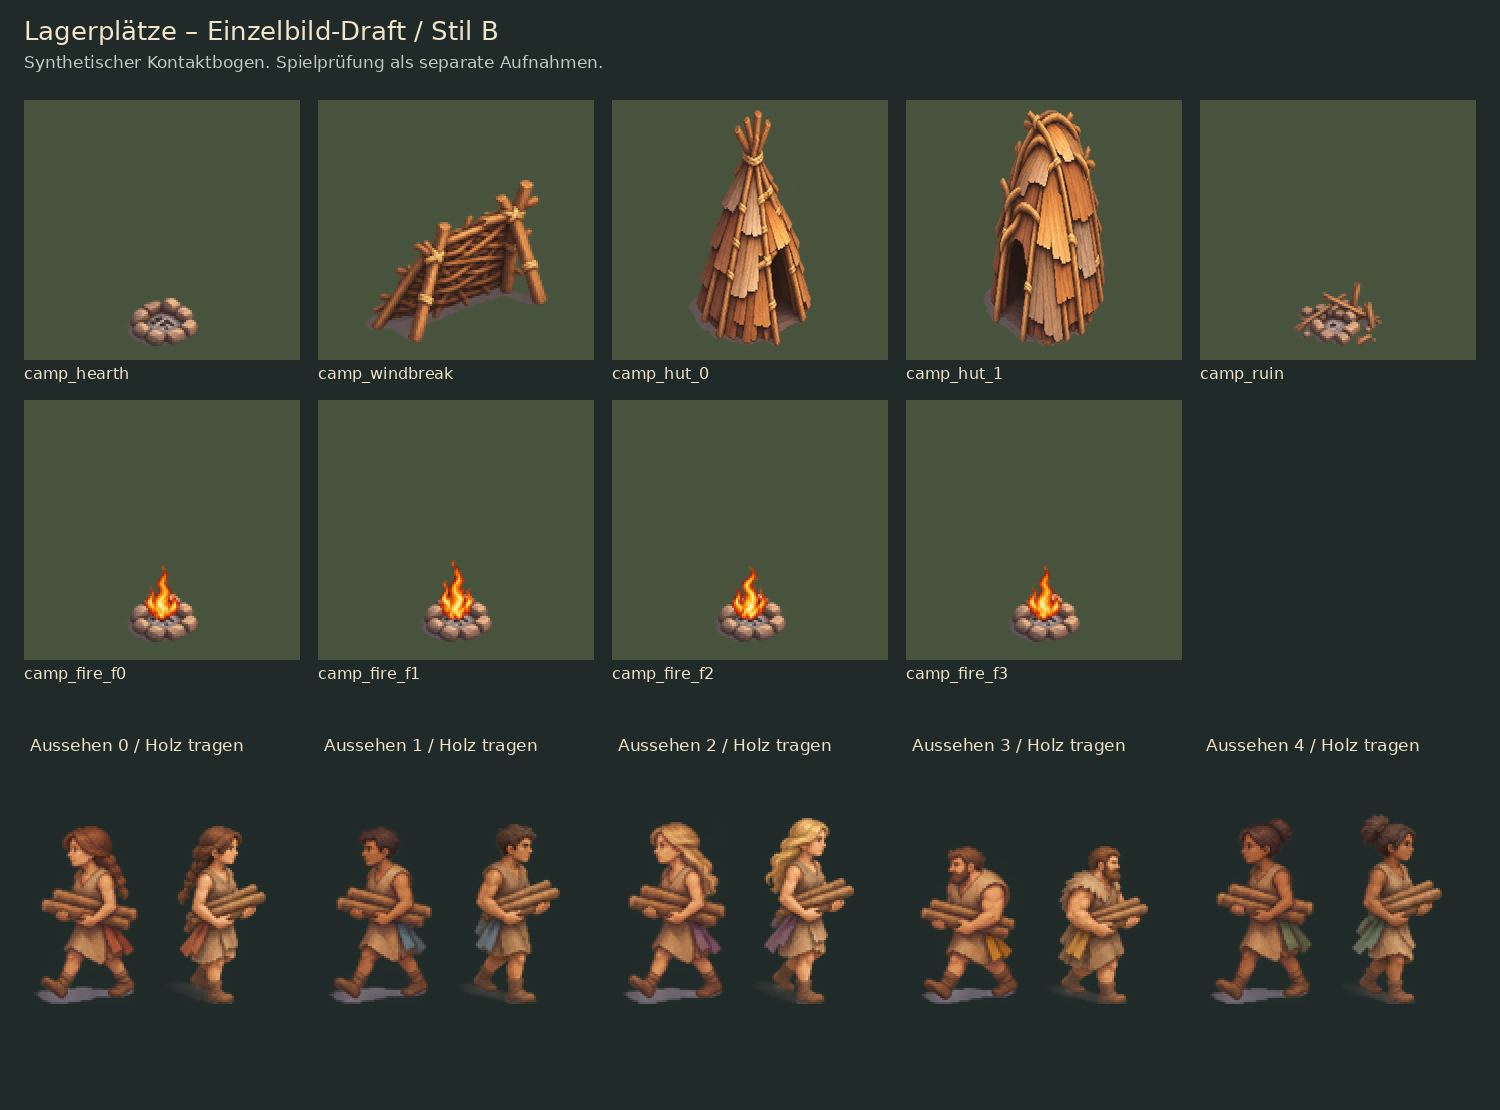
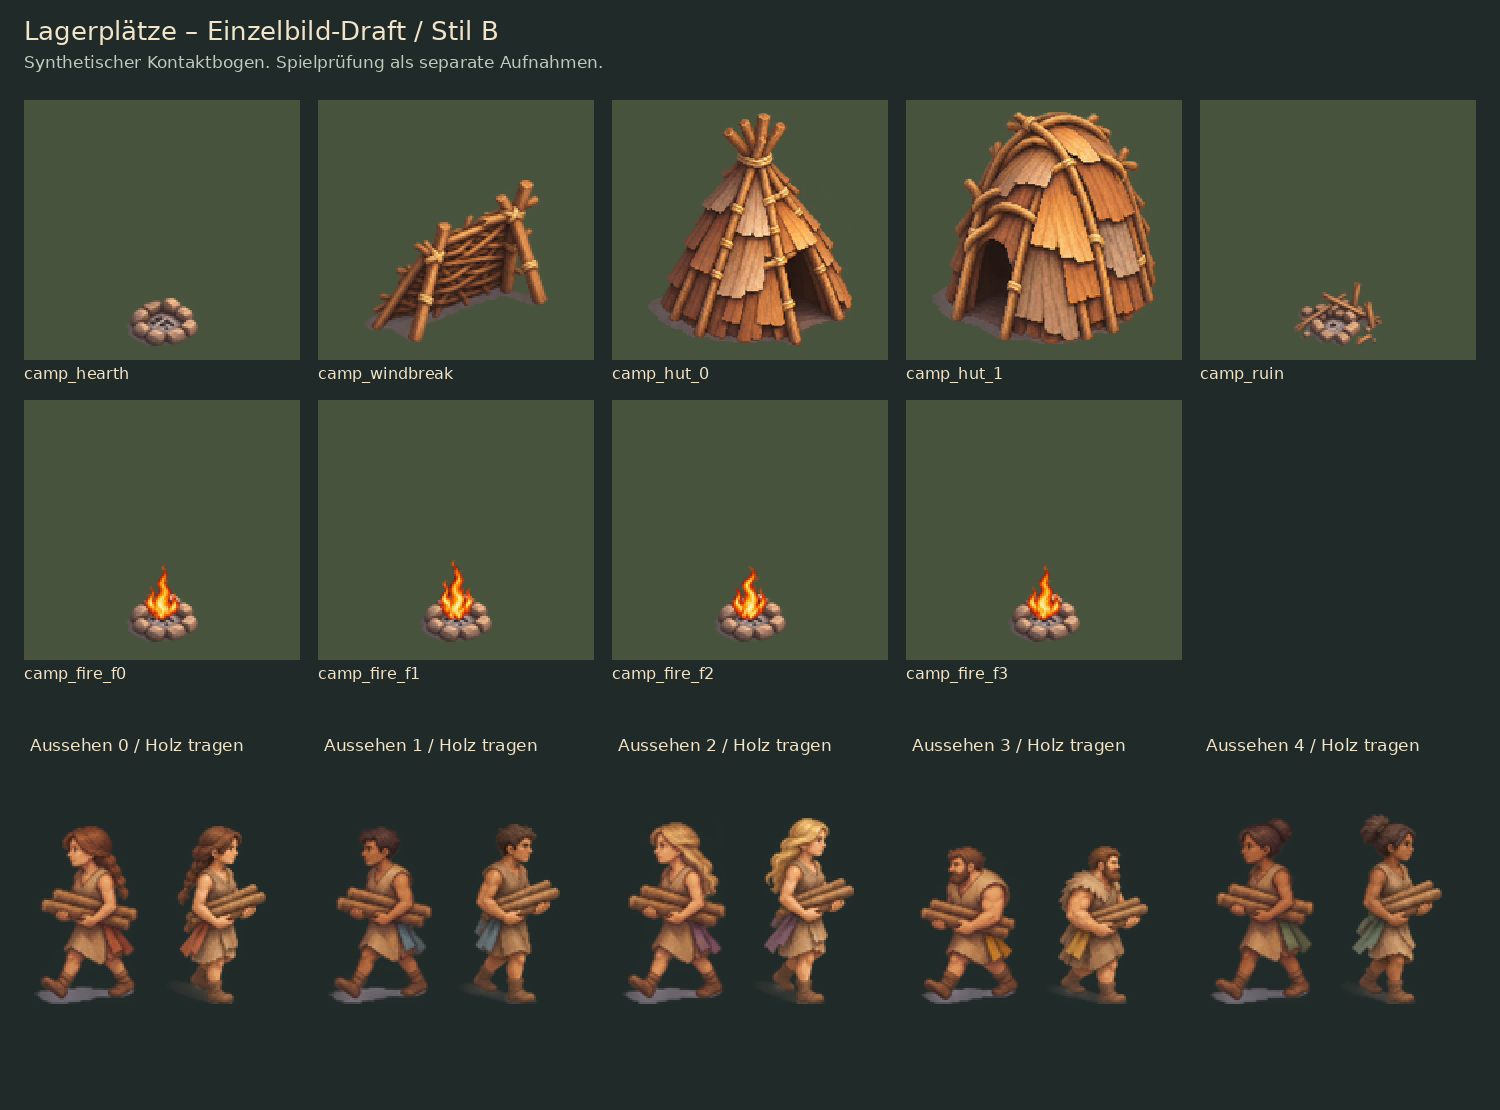
Preserve camp hut proportions during sprite export

Changed region(s): [[0.6133, 0.0919, 0.7667, 0.3063], [0.4293, 0.0919, 0.5827, 0.3063]]

diff --git a/tools/nature/export_camp_sprites.py b/tools/nature/export_camp_sprites.py
@@ -7,6 +7,7 @@ die vereinbarten Dateimaße und schreibt Fußpunkte und Prüfnachweise.
 import argparse
 import hashlib
 import json
+import math
 from pathlib import Path
 
 from PIL import Image, ImageDraw, ImageFont
@@ -41,19 +42,83 @@ def cells(path, cols, rows):
     return result
 
 
-def place(cut, size, anchor, factor=None, fit=None):
-    if fit:
-        target = fit
-    else:
-        factor = factor or min((size[0] - 4) / cut.width,
-                               (size[1] - 8) / cut.height)
-        target = (max(1, round(cut.width * factor)),
-                  max(1, round(cut.height * factor)))
+def place(cut, size, anchor, factor=None):
+    factor = factor or min((size[0] - 4) / cut.width,
+                           (size[1] - 8) / cut.height)
+    target = (max(1, round(cut.width * factor)),
+              max(1, round(cut.height * factor)))
     scaled = cut.resize(target, Image.Resampling.LANCZOS)
     image = Image.new("RGBA", size)
     image.alpha_composite(scaled, (round(anchor[0] - target[0] / 2),
                                    anchor[1] - target[1]))
     return image
+
+
+def hut_layout(cut):
+    """Weltbreite 20, 8-fache Datei; Höhe aus dem unverzerrten Quellmotiv."""
+    width = 160
+    factor = (width - 4) / cut.width
+    height = math.ceil(cut.height * factor) + 8
+    return (width, height), (20, height / 8), (width // 2, height - 4)
+
+
+def write_board(images, icc):
+    font = lambda size: ImageFont.truetype(FONT, size)
+    board = Image.new("RGB", (1500, 1110), "#202b29")
+    draw = ImageDraw.Draw(board)
+    draw.text((24, 15), "Lagerplätze – Einzelbild-Draft / Stil B", font=font(26), fill="#f1e4c9")
+    draw.text((24, 52), "Synthetischer Kontaktbogen. Spielprüfung als separate Aufnahmen.", font=font(17), fill="#c0cabc")
+    for index, (name, image) in enumerate((n, im) for n, im in images.items() if n.startswith("camp_")):
+        x, y = 24 + index % 5 * 294, 100 + index // 5 * 300
+        panel = Image.new("RGBA", (276, 260), "#48533d")
+        factor = min(2, 248 / image.width, 244 / image.height)
+        preview = image.resize((round(image.width * factor), round(image.height * factor)), Image.Resampling.NEAREST)
+        panel.alpha_composite(preview, ((276 - preview.width) // 2, 250 - preview.height))
+        board.paste(panel.convert("RGB"), (x, y))
+        draw.text((x, y + 264), name, font=font(16), fill="#f1e4c9")
+    for look in range(5):
+        x = 30 + look * 294
+        draw.text((x, 735), f"Aussehen {look} / Holz tragen", font=font(17), fill="#f1e4c9")
+        for index, direction in enumerate(("l", "r")):
+            im = images[f"person_{look}_build_{direction}_f0"].resize((112, 240), Image.Resampling.NEAREST)
+            board.paste(im, (x + index * 130, 780), im)
+    board.save(REVIEW / "einzelbilder.png", icc_profile=icc)
+
+
+def refresh_huts(camp_source):
+    """Gezielt beide vorhandenen Hütten aktualisieren, andere Motive bewahren."""
+    report_path = REVIEW / "export.json"
+    report = json.loads(report_path.read_text(encoding="utf-8"))
+    source_hash = next(s["sha256"] for s in report["sources"] if s["name"] == "camp")
+    if digest(camp_source) != source_hash:
+        raise ValueError("Quellbogen stimmt nicht mit dem dokumentierten Lagerexport überein.")
+    camp = cells(camp_source, 3, 3)
+    manifest_path = BUILDINGS / "manifest.json"
+    manifest = json.loads(manifest_path.read_text(encoding="utf-8"))
+    icc = Image.open(BUILDINGS / "camp_hut_0.png").info.get("icc_profile")
+    layouts = []
+    for variant in range(2):
+        name = f"camp_hut_{variant}"
+        cut = camp[variant + 2][0]
+        size, world, anchor = hut_layout(cut)
+        path = BUILDINGS / (name + ".png")
+        image = place(cut, size, anchor)
+        image.save(path, icc_profile=icc)
+        entry = next(a for a in manifest["assets"] if a["id"] == name)
+        entry.update(size=size, display_size=world, anchor=anchor)
+        record = next(r for r in report["files"] if r["file"] == str(path.relative_to(ROOT)))
+        record.update(sha256=digest(path), size=list(size), mode=image.mode,
+                      bbox=image.getchannel("A").getbbox())
+        layouts.append({"id": name, "source_size": list(cut.size), "size": size,
+                        "display_size": world, "anchor": anchor})
+    report["hut_export"] = "Proportional aus dem ursprünglichen Rasterbogen; Weltbreite 20, Höhe aus Motivform, Fußpunkt unten mittig."
+    report["hut_layouts"] = layouts
+    manifest_path.write_text(json.dumps(manifest, ensure_ascii=False, indent=2) + "\n", encoding="utf-8")
+    report_path.write_text(json.dumps(report, ensure_ascii=False, indent=2) + "\n", encoding="utf-8")
+    images = {Path(r["file"]).stem: Image.open(ROOT / r["file"]).convert("RGBA")
+              for r in report["files"]}
+    write_board(images, icc)
+    print(json.dumps(layouts, ensure_ascii=False))
 
 
 def export(camp_source, right_source, left_source):
@@ -63,13 +128,12 @@ def export(camp_source, right_source, left_source):
         raise ValueError("Gebäudemanifest existiert; nicht automatisch überschreiben.")
     icc = Image.open(ROOT / "assets/nature/ground/ground_soil_0.png").info.get("icc_profile")
     camp = cells(camp_source, 3, 3)
-    # Breiten aus 17.8, Dateifeinheit 8×. Hütten bewusst 30 Welteinheiten
-    # hoch (Menschen: 15). Beide Varianten erhalten dasselbe Hüllmaß.
+    # Hütten: Weltbreite 20 nach Korrekturauftrag, Höhe proportional zum Motiv.
     specs = [
         ("camp_hearth", (48, 32), (6, 4), (24, 30)),
         ("camp_windbreak", (96, 112), (12, 14), (48, 108)),
-        ("camp_hut_0", (128, 240), (16, 30), (64, 236)),
-        ("camp_hut_1", (128, 240), (16, 30), (64, 236)),
+        ("camp_hut_0", *hut_layout(camp[2][0])),
+        ("camp_hut_1", *hut_layout(camp[3][0])),
         ("camp_ruin", (48, 40), (6, 5), (24, 38)),
     ]
     images, entries, records = {}, [], []
@@ -85,8 +149,7 @@ def export(camp_source, right_source, left_source):
                         "bbox": image.getchannel("A").getbbox()})
 
     for index, (name, size, world, anchor) in enumerate(specs):
-        fit = (120, 232) if name.startswith("camp_hut_") else None
-        image = place(camp[index][0], size, anchor, fit=fit)
+        image = place(camp[index][0], size, anchor)
         save(name, image, BUILDINGS)
         entries.append({"id": name, "files": [name + ".png"], "size": size,
                         "display_size": world, "anchor": anchor})
@@ -135,26 +198,8 @@ def export(camp_source, right_source, left_source):
         "frame_map": mapping})
     manifest_path.write_text(json.dumps(manifest, ensure_ascii=False, indent=2) + "\n", encoding="utf-8")
 
+    write_board(images, icc)
     font = lambda size: ImageFont.truetype(FONT, size)
-    board = Image.new("RGB", (1500, 1110), "#202b29")
-    draw = ImageDraw.Draw(board)
-    draw.text((24, 15), "Lagerplätze – Einzelbild-Draft / Stil B", font=font(26), fill="#f1e4c9")
-    draw.text((24, 52), "Synthetischer Kontaktbogen. Spielprüfung als separate Aufnahmen.", font=font(17), fill="#c0cabc")
-    for index, (name, image) in enumerate((n, im) for n, im in images.items() if n.startswith("camp_")):
-        x, y = 24 + index % 5 * 294, 100 + index // 5 * 300
-        panel = Image.new("RGBA", (276, 260), "#48533d")
-        factor = min(2, 248 / image.width, 244 / image.height)
-        preview = image.resize((round(image.width * factor), round(image.height * factor)), Image.Resampling.NEAREST)
-        panel.alpha_composite(preview, ((276 - preview.width) // 2, 250 - preview.height))
-        board.paste(panel.convert("RGB"), (x, y))
-        draw.text((x, y + 264), name, font=font(16), fill="#f1e4c9")
-    for look in range(5):
-        x = 30 + look * 294
-        draw.text((x, 735), f"Aussehen {look} / Holz tragen", font=font(17), fill="#f1e4c9")
-        for index, direction in enumerate(("l", "r")):
-            im = images[f"person_{look}_build_{direction}_f0"].resize((112, 240), Image.Resampling.NEAREST)
-            board.paste(im, (x + index * 130, 780), im)
-    board.save(REVIEW / "einzelbilder.png", icc_profile=icc)
 
     animation = []
     for frame in range(4):
@@ -178,7 +223,7 @@ def export(camp_source, right_source, left_source):
         "sources": [{"name": name, "sha256": digest(path)} for name, path in
                     [("camp", camp_source), ("people_right", right_source), ("people_left", left_source)]],
         "mirrored_frames": False, "building_count": 9, "build_frame_count": 40,
-        "hut_export": "Hüllmaß beider Hütten auf 120×232 px normiert; Leinwand 128×240, Weltmaß 16×30",
+        "hut_export": "Proportional aus dem ursprünglichen Rasterbogen; Weltbreite 20, Höhe aus Motivform, Fußpunkt unten mittig.",
         "fire_source_files": [{"file": str(p.relative_to(ROOT)), "sha256": digest(p)} for p in fire_sources],
         "fire_export": "Fester kalter Steinring + vier vorhandene generierte Flammen, einheitlich 20×32 px; Ring unverändert.",
         "files": records,
@@ -190,7 +235,13 @@ def export(camp_source, right_source, left_source):
 if __name__ == "__main__":
     parser = argparse.ArgumentParser(description=__doc__)
     parser.add_argument("camp", type=Path)
-    parser.add_argument("right", type=Path)
-    parser.add_argument("left", type=Path)
+    parser.add_argument("right", type=Path, nargs="?")
+    parser.add_argument("left", type=Path, nargs="?")
+    parser.add_argument("--huts-only", action="store_true", help="Nur die beiden vorhandenen Hütten und ihre Metadaten erneuern.")
     args = parser.parse_args()
-    export(args.camp, args.right, args.left)
+    if args.huts_only:
+        refresh_huts(args.camp)
+    else:
+        if args.right is None or args.left is None:
+            parser.error("Erstexport benötigt die beiden Menschenbögen; für Hütten --huts-only verwenden.")
+        export(args.camp, args.right, args.left)

diff --git a/versionsstand.md b/versionsstand.md
@@ -6,8 +6,8 @@
 
 | Frage | Antwort |
 | --- | --- |
-| **Zuletzt erledigt** | Codex-Draft: neun Lager-Einzelbilder und 40 Holztragephasen im neuen Stil, eigenes Gebäudemanifest; noch keine gestalterische Freigabe. Spielprüfung und Kontaktbogen: `art/nature/camp-review/`. Ausgangsstand `8218fc2`, Branch `codex/camp-sprites`. |
-| **Getestet** | `cargo fmt`, `cargo clippy -D warnings`, `cargo test --release --workspace` grün; vier neue Tests in `crates/core/tests/people.rs` (Lager an Wasser + Hütten, Holzschlag lichtet Wald, Verfall, Speichern/Laden). Bildschirmfotos Seed 2024, Zoom 8 und 2: Lager mit zwei Hütten und Feuer sichtbar (Platzhalter). |
+| **Zuletzt erledigt** | Codex: gestreckte Hütten korrigiert. Proportionaler Export, Weltbreite 20, Höhe aus Quellform und Fußpunkt unten mittig. Neuer Draft auf `codex/camp-hut-proportions`, Basis `7b20283`; Vergleich in `art/nature/camp-hut-proportions/`. |
+| **Getestet** | Aktuelle Hütten-Korrektur: 89 Rust-Tests, Formatprüfung, strenges Clippy und Release-Bau bestanden. Proportions-/Hashvergleich, wiederholter Export und tatsächliche Spielbilder Zoom 8/32 geprüft. |
 | **Offen für Codex** | Nach Abnahme des Lager-Drafts übrige Menschenzustände stilistisch angleichen. Dennis hat die schrittweise Umstellung aller Spielbilder beauftragt; Reihenfolge in Gestaltung 18. Ruine noch nicht an einem natürlich verlassenen Lager geprüft. |
 | **Offen für Dennis** | – (PR #9 und #10 übernommen; Feuer im Spiel seit 0.8.1, Fuchs B Fernfassung liegt als Entwurf in art/) |
 | **Nächster Schritt (Roadmap)** | Vom Lager zum Dorf: Fischfang, später Anbau, mehrere Lager einer Gruppe, Werkzeuge. |
@@ -23,6 +23,7 @@
 
 | Datum | Änderung | Code-Test |
 | --- | --- | --- |
+| 16.11.2026 | Codex: feste 120×232-Skalierung entfernt; beide Hütten proportional neu exportiert, Leinwand/Manifest angepasst. Die übrigen 47 Motive bleiben bytegleich. | Quell-/Exportproportionen und wiederholter Export geprüft; tatsächlicher Vorher-/Nachher-Spielvergleich bei Zoom 8/32, ohne `--bilder`. Visuelle Abnahme durch Claude noch offen. |
 | 16.11.2026 | Codex: Lager-Draft mit neun Einzelbildern, 40 `_build`-Phasen, Manifesten und Prüfpaket; Übergabe an Claude: Bewuchs auf Lagerfeldern verdeckt teilweise Hütten. Stilumstellung aller Bildgruppen in Gestaltung 18 festgehalten. | 89 Rust-Tests, fmt, strenges Clippy und Release-Bau bestanden; Dateiprüfung aller 49 PNGs; eingebettete Bilder ohne `--bilder` bei Zoom 4/8/32, Windschutz, Holztragen und kalter Feuerstelle angesehen. Keine Änderungen am Kern/Renderer, visuelle Freigabe offen. |
 | 16.11.2026 | v0.8.1 Flammen und Glutsaum aus PR #10 eingebunden | Spielbild Seed 7 Zoom 8 |
 | 16.11.2026 | v0.8.0 Lagerplätze (Claude) | fmt, clippy, alle Tests grün; Spielbild Zoom 8/2 angesehen |

diff --git a/art/nature/camp-hut-proportions/README.md b/art/nature/camp-hut-proportions/README.md
@@ -1,0 +1,52 @@
+# Hütten: Proportionen korrigiert
+
+Die Exportoption `fit = (120, 232)` streckte beide Hütten unabhängig von der
+Form im Quellbogen. Sie ist entfernt. Beide Achsen verwenden denselben Faktor;
+die Leinwandhöhe ergibt sich aus der Quellform. Weltbreite 20 gemäß Dennis'
+Korrekturauftrag, Fußpunkt unten mittig mit vier Pixeln Rand.
+
+| Motiv | Quellausschnitt | Datei | Weltmaß | Fußpunkt |
+| --- | --- | --- | --- | --- |
+| Hütte 0 | 330×375 | 160×186 | 20×23,25 | 80/182 |
+| Hütte 1 | 345×358 | 160×170 | 20×21,25 | 80/166 |
+
+`source-camp-atlas.png` ist der unveränderte ursprüngliche Produktionsbogen
+(Hash identisch zum ersten Lagerexport). Keine neuen Motive oder Änderungen
+am Spielcode. Die übrigen 47 Einzelbilder sind nach Hashvergleich unverändert.
+
+Erneut exportieren, vom Repository-Hauptordner:
+
+```sh
+python tools/nature/export_camp_sprites.py art/nature/camp-hut-proportions/source-camp-atlas.png --huts-only
+```
+
+Der gezielte Export aktualisiert nur die beiden Hütten, ihre Manifesteinträge,
+Exportnachweise und den Kontaktbogen. Eine Wiederholung ergibt bytegleiche
+Hütten und dasselbe Manifest. Der vollständige Erstexport verwendet dieselbe
+proportionale Größenberechnung.
+
+## Spielvergleich
+
+`vorher-zoom8.png` / `vorher-zoom32.png`: Ausgangsstand `7b20283`, v0.8.2.
+`nachher-zoom8.png` / `nachher-zoom32.png`: derselbe Code mit korrigierten,
+direkt eingebetteten Bildern; kein `--bilder`.
+
+```sh
+nature-in-a-glass --seed 2024 --years 10 --menschen --danach 3 --select 19,34 --zoom 8
+nature-in-a-glass --seed 2024 --years 10 --menschen --danach 3 --select 19,34 --zoom 32
+```
+
+Beide Hütten im tatsächlichen Spiel angesehen: breitere natürliche Form,
+unterschiedliche Dachformen, weiterhin derselbe Standpunkt zur Feuerstelle.
+Die geometrische Prüfung in `validation.json` vergleicht die Proportionen des
+Quellausschnitts mit dem sichtbaren exportierten Motiv; Abweichungen bleiben
+unter zwei Pixeln Rundungstoleranz. Die endgültige gestalterische Abnahme bleibt
+bei Claude/Dennis. Frühere Spielbilder im Ordner `camp-review` dokumentieren
+den damaligen Stand; die aktuellen Vergleiche liegen hier.
+
+## Prüfungen
+
+Formatprüfung, strenges Clippy und Release-Bau bestanden.
+`cargo test --locked --release --workspace`: 89 Tests bestanden, keine Fehler.
+Gezielter Wiederholungsexport bytegleich; vollständiger Erstexport im
+ignorierten Prüfverzeichnis liefert dieselben Hüttenpixel.

diff --git a/art/nature/camp-review/README.md b/art/nature/camp-review/README.md
@@ -29,12 +29,16 @@ Paket. Der Beobachter zeichnet alte Hütten beim Verfall selbst niedrig/dunkel.
 | kalte Feuerstelle | 48×32 | 6×4 | 24/30 |
 | Feuer, alle vier Phasen | 48×56 | 6×7 | 24/52 |
 | Windschutz | 96×112 | 12×14 | 48/108 |
-| beide Hütten | 128×240 | 16×30 | 64/236 |
+| Hütte 0 | 160×186 | 20×23,25 | 80/182 |
+| Hütte 1 | 160×170 | 20×21,25 | 80/166 |
 | Ruine | 48×40 | 6×5 | 24/38 |
 | Menschen `_build` | 56×120 | 7×15 | 28/112 |
 
-Die Hütten sind auf dieselbe 120×232-Pixel-Hülle normiert, damit sie bei
-unverändertem Weltmaß ungefähr die doppelte Menschenhöhe erreichen.
+Die Hütten werden proportional aus dem Quellmotiv skaliert. Die frühere
+Normierung auf 120×232 verzerrte beide Motive und ist entfernt. Weltbreite 20,
+Leinwandhöhe aus dem echten Seitenverhältnis, Fußpunkt unten mittig.
+Vorher-/Nachher-Spielaufnahmen bei Zoom 8/32 und der reproduzierbare Quellbogen
+liegen unter [camp-hut-proportions](../camp-hut-proportions/README.md).
 Die Menschen haben je Aussehen einen gemeinsamen Skalierungsfaktor für alle
 acht Bilder; kein Aufblasen einzelner Posen. Erkennungsfarben und Haarformen
 entsprechen den fünf bestehenden Aussehen. Linke Figuren wurden separat
@@ -96,8 +100,7 @@ nicht als bereits freigegebener, vollkommen konsistenter Animationssatz.
 Die Ruine ist technisch geprüft und auf dem Kontaktbogen sichtbar, wurde aber
 nicht durch einen natürlich verlassenen Lagerplatz in einer Spielsitzung geprüft.
 
-Bei Zoom 32 verdecken einzelne bestehende Baum-/Buschbilder Teile der Hütten.
-Wunsch an Claude gemäß 17.8: prüfen, ob Bewuchs auf Lagerfeldern optisch
-zurückgenommen werden soll. In diesem Paket keine Änderung des Kerns oder
-Renderers. Der nächste Stilblock umfasst die übrigen Zustände aller fünf
+Die Zurücknahme von Bäumen und Büschen auf Lagerfeldern wurde von Claude in
+v0.8.2 übernommen. Die Proportionskorrektur verändert nur den Bildexport und
+die zugehörigen Metadaten. Der nächste Stilblock umfasst die übrigen Zustände aller fünf
 Menschen, danach Landschaft/Pflanzen, Tiere und Wasser; siehe Gestaltung 18.

diff --git a/docs/gestaltung.md b/docs/gestaltung.md
@@ -851,7 +851,7 @@ Stand 16.11.2026. Seit v0.8.0 legen die Menschen selbst Lagerplätze an (niemand
 | `camp_hearth` | 6 | Steinring mit Asche, kalt |
 | `camp_fire_f0` … `f3` | 6 | Steinring mit kleinem Feuer, 4 Bilder à 200 ms (Animation nur bei 1 Std/s, sonst `f0`) – Rauch gehört später zum Feuerpaket |
 | `camp_windbreak` | 12 | Windschutz aus schräg gestellten Ästen; steht nur, solange es noch keine Hütte gibt |
-| `camp_hut_0`, `camp_hut_1` | 16 | Hütte (zwei Varianten), etwa doppelt so hoch wie ein Mensch, Eingang zur Feuerstelle |
+| `camp_hut_0`, `camp_hut_1` | 20 | Hütte (zwei Varianten), proportional zur Quellform; Eingang zur Feuerstelle. Korrigiertes Weltmaß 20×23,25 bzw. 20×21,25, keine erzwungene Höhe. |
 | `camp_ruin` | 6 | verfallenes Lager: verstreute Steine, umgefallene Stangen (ersetzt Feuerstelle; Hütten werden niedrig und dunkel gezeichnet, bis es ein eigenes `camp_hut_ruin` gibt) |
 | `camp_store` | 6 | (optional) Vorräte: Körbe, Bündel neben der Feuerstelle |
 
@@ -866,7 +866,9 @@ für alle fünf Aussehen, beide Richtungen separat erzeugt, nicht gespiegelt.
 Eigene Gebäude-Metadaten funktionieren seit `8218fc2` auch im eingebetteten
 Spiel; direkt ohne `--bilder` geprüft. Feuer übernimmt vier Flammen aus dem
 bereits eingebauten neuen Feuerpaket auf einem identischen kalten Steinring.
-Die Hütten erhalten Weltmaß 16×30, Menschen 7×15, feste Fußpunkte.
+Die Hütten erhielten zunächst Weltmaß 16×30; diese Exporte waren verzerrt.
+Korrektur auf `codex/camp-hut-proportions`: proportional, Weltmaß 20×23,25
+bzw. 20×21,25, Fußpunkt unten mittig. Menschen bleiben bei 7×15.
 Kontaktbogen, Animationen, tatsächliche Aufnahmen und offene Abnahmepunkte:
 [Lager-Prüfpaket](../art/nature/camp-review/README.md).
 Bewuchs verdeckt in der Nahansicht Teile einer Hütte; bitte Claude eine
